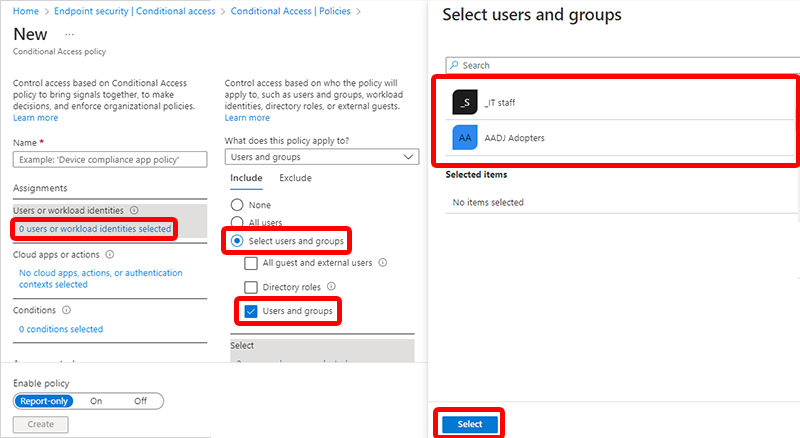
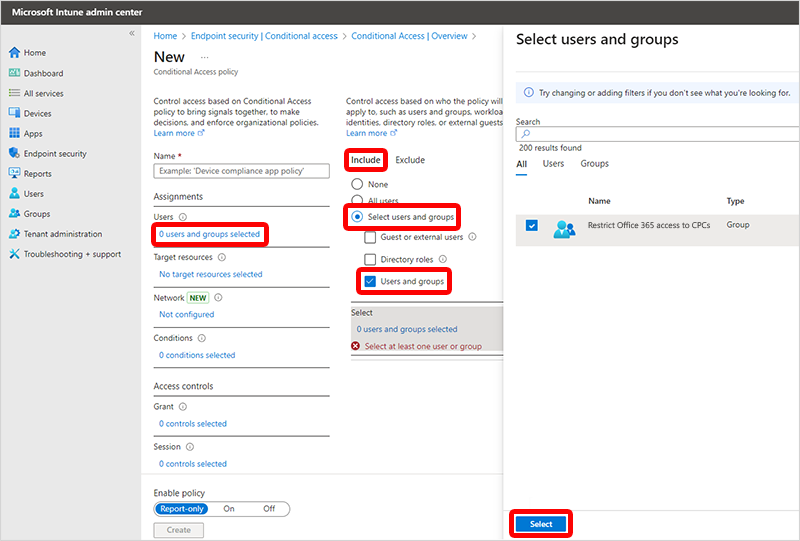
freshness

Changed region(s): [[0.0, 0.0, 1.0, 0.8607], [0.0, 0.8607, 1.0, 1.0], [0.9688, 0.4749, 1.0, 0.5046]]

diff --git a/Windows365/enterprise/restrict-office-365-cloud-pcs.md b/Windows365/enterprise/restrict-office-365-cloud-pcs.md
@@ -7,7 +7,7 @@ keywords:
 author: ErikjeMS  
 ms.author: erikje
 manager: dougeby
-ms.date: 09/27/2023
+ms.date: 09/30/2024
 ms.topic: how-to
 ms.service: windows-365
 ms.subservice: windows-365-enterprise
@@ -41,13 +41,11 @@ This article describes how to limit access to Office 365 services. You can use t
 3. Type a **Name** for your new Conditional Access policy. For example, “Restrict Office 365 access to CPCs”.
 4. Select **0 users and groups selected** > **Include** > **Select users and groups** > **Users and groups** > select the Microsoft Entra security group that you created > **Select**.
     ![Select group screen shot](./media/restrict-office-365-cloud-pcs/select-group.png)
-5. Select **No cloud apps, actions, or authentication contexts selected** > **Include** > **Select apps** > **None** (under **Select**) > search for and select **Office 365** > **Select**.
+5. Select **No target resources selected** > **Include** > **Select apps** > **None** (under **Select**) > search for and select **Office 365** > **Select**.
     ![Select apps to include](./media/restrict-office-365-cloud-pcs/include-apps.png)
 6. Select **Exclude** > **None** (under **Select excluded cloud apps**) > search for and select **Azure Virtual Desktop** and **Windows 365** apps > **Select**.
-    ![Select apps to exclude](./media/restrict-office-365-cloud-pcs/exclude-apps.png)
-7. Select **0 conditions selected** > **Not configured** (under **Filter for devices**).
-    ![Filter devices screen shot](./media/restrict-office-365-cloud-pcs/filter-devices.png)
-8. In the **Filter for devices** pane:
+7. Select **0 conditions selected** (under **Conditions**) > **Not configured** (under **Filter for devices**).
+    n the **Filter for devices** pane:
     1. Set **Configure** to **Yes**.
     2. Select **Exclude filtered devices from policy**.
     3. Select the dropdown option under **Property** > **Model**.
@@ -59,7 +57,6 @@ This article describes how to limit access to Office 365 services. You can use t
 
     You can set more options in this policy as needed, but such additions are outside the scope of this article.
 9. Select **0 controls selected** (under **Grant**) > **Block Access** >**Select**.
-    ![Block access screen shot](./media/restrict-office-365-cloud-pcs/block-access.png)
 10. Select **On** (under **Enable policy**). This policy will restrict users from accessing Office 365 services on non-Cloud PC devices. You may want to select **Report-only** to monitor the policy and build confidence prior to enforcing it.
 11. Select **Create** to complete the creation of policy.
 
